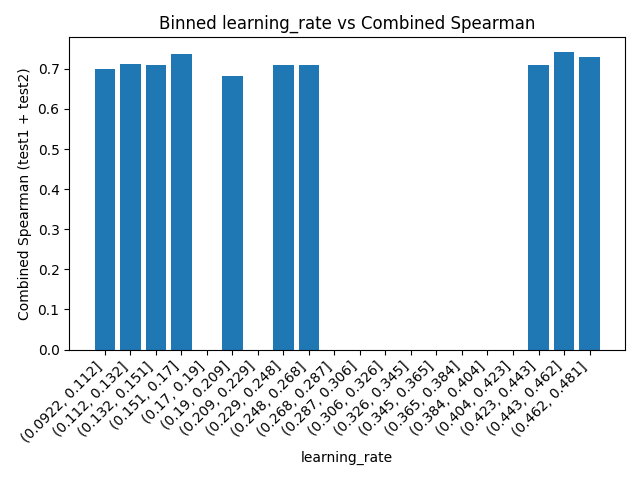
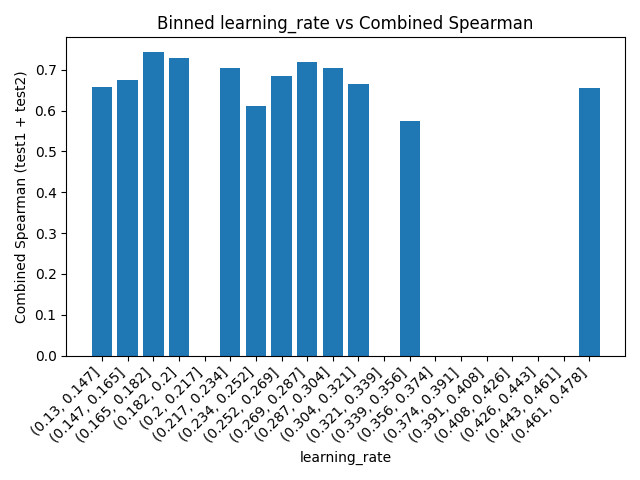
focusing on expanding parameters for embedded XGboost

Changed region(s): [[0.0, 0.0938, 0.9688, 0.9688], [0.25, 0.0312, 0.8438, 0.0625]]

diff --git a/auto_embed/submit.py b/auto_embed/submit.py
@@ -8,9 +8,8 @@ import time
 
 start_time = time.time()
 
-#  Download Helper 
+# Download helper
 def get_sharepoint(url, fname):
-    '''Fetch a world-readable SharePoint file shared via URL'''
     s = requests.Session()
     r = s.get(url)
     if not r:
@@ -30,22 +29,16 @@ def get_sharepoint(url, fname):
             fd.write(chunk)
     return True
 
-#  Download all files 
-get_sharepoint("https://pitt-my.sharepoint.com/:u:/g/personal/daa248_pitt_edu/EXax2uFOUN9Cqdc1RLIGLUMBr4M_RsN5IaAJZLC0KBmt9w?e=3lIlzG", "model.pkl")
-get_sharepoint("https://pitt-my.sharepoint.com/:t:/g/personal/daa248_pitt_edu/EdUlcAZ2gdFGnrqTCCUrQY0BUMEKKTWg-V1YF0BDe0AN1g?e=i7lyLt", "kmer_vocab.txt")
+# Download required files
+get_sharepoint("https://pitt-my.sharepoint.com/:u:/g/personal/daa248_pitt_edu/EfCZ-V2GcCVNp6L8Vms9DzoB-Ny2O-ldBVwzvk1X9sR84A?e=VQWaxY", "model.pkl")
 get_sharepoint("https://pitt-my.sharepoint.com/:t:/g/personal/daa248_pitt_edu/EY_LoADXgS5CvrlY-4JtPnUBeKodPxIAWb2GUKUQbEy_Kg?e=FANqjc", "kinase_seqs.txt")
+get_sharepoint("https://pitt-my.sharepoint.com/:u:/g/personal/daa248_pitt_edu/EbgpSLAyFAhEmaPEabv26_0Bfne6Ts287b-kc0ctlDuHhw?e=bUkCxH", "esm2_embeddings.npy")
 
-#  Load model 
+# Load model
 with open("model.pkl", "rb") as f:
     model = cloudpickle.load(f)
 
-#  Load vocabulary and sequence map 
-with open("kmer_vocab.txt") as f:
-    vocab = [line.strip() for line in f]
-
-kmer_to_index = {kmer: i for i, kmer in enumerate(vocab)}
-k = len(vocab[0])
-
+# Load sequences
 seq_map = {}
 with open("kinase_seqs.txt") as f:
     for line in f:
@@ -53,26 +46,24 @@ with open("kinase_seqs.txt") as f:
             uniprot, seq = line.strip().split()
             seq_map[uniprot] = seq
 
-#  Featurization 
+# Load ESM-2 embeddings
+embedding_dict = np.load("esm2_embeddings.npy", allow_pickle=True).item()
+
+# Featurize: ECFP + ESM embedding
 def featurize(smile, uniprot):
-    # Morgan fingerprint
     mol = Chem.MolFromSmiles(smile)
     if mol is None:
         return None
     fp = GetMorganGenerator(radius=2, fpSize=2048)
-    fp_array = np.array(fp.GetFingerprint(mol), dtype=np.float32)
+    ecfp_vec = np.array(fp.GetFingerprint(mol), dtype=np.float32)
 
-    # K-mer count
-    kmer_vec = np.zeros(len(kmer_to_index))
-    seq = seq_map.get(uniprot)
-    if seq:
-        for i in range(len(seq) - k + 1):
-            kmer = seq[i:i+k]
-            if kmer in kmer_to_index:
-                kmer_vec[kmer_to_index[kmer]] += 1
-    return np.concatenate([fp_array, kmer_vec])
+    if uniprot not in embedding_dict:
+        return None
+    esm_vec = embedding_dict[uniprot]
 
-#  Run predictions 
+    return np.concatenate([ecfp_vec, esm_vec])
+
+# Run predictions
 infile = open(sys.argv[1])
 outfile = open(sys.argv[2], "wt")
 
@@ -83,7 +74,7 @@ for line in infile:
     smile, uniprot = line.strip().split()
     x = featurize(smile, uniprot)
     if x is None:
-        val = 6.0  # fallback if invalid SMILES
+        val = 6.0
     else:
         val = float(model.predict(xgb.DMatrix(np.array([x])))[0])
     outfile.write(f"{smile} {uniprot} {val:.4f}\n")

diff --git a/auto_embed/main.py b/auto_embed/main.py
@@ -93,21 +93,29 @@ from skopt.space import Integer, Real
 from skopt.utils import use_named_args
 
 search_space = [
-    Integer(11, 20,   name="max_depth"),
-    Real   (0.13, .478, name="learning_rate"),
-    Integer(389, 1000, name="num_boost_round"),
+    Integer(5, 10,   name="max_depth"),
+    Real(0.13, 0.478, name="learning_rate"),
+    Integer(300, 700, name="num_boost_round"),
+    Integer(1, 10,    name="min_child_weight"),
+    Real(0.5, 1.0,    name="subsample"),
+    Real(0.5, 1.0,    name="colsample_bytree"),
+    Real(0.0, 5.0,    name="gamma"),
+    Real(0.0, 1.0,    name="reg_alpha"),
+    Real(0.0, 1.0,    name="reg_lambda"),
 ]
 
-if not os.path.exists("data/logs_xgboost.csv"):
+if not os.path.exists("data/logs_xgboost_more.csv"):
     pd.DataFrame(columns=[
         "trial", "max_depth", "learning_rate", "num_boost_round",
+        "min_child_weight", "subsample", "colsample_bytree",
+        "gamma", "reg_alpha", "reg_lambda",
         "test1_spearman", "test2_spearman"
-    ]).to_csv("data/logs_xgboost.csv", index=False)
+    ]).to_csv("data/logs_xgboost_more.csv", index=False)
 
 @use_named_args(search_space)
 def objective(**params):
     # trial counter from the CSV
-    trial_num = len(pd.read_csv("data/logs_xgboost.csv")) + 1
+    trial_num = len(pd.read_csv("data/logs_xgboost_more.csv")) + 1
     print(f"\n>>> Trial {trial_num} with {params}")
 
     result   = train_xgboost(x_path, y_path, **params)
@@ -126,7 +134,7 @@ def objective(**params):
         **params,
         "test1_spearman": test1_s,
         "test2_spearman": test2_s
-    }]).to_csv("data/logs_xgboost.csv", mode="a", header=False, index=False)
+    }]).to_csv("data/logs_xgboost_more.csv", mode="a", header=False, index=False)
 
     # minimise *negative* mean Spearman
     return -0.5 * (test1_s + test2_s)

diff --git a/auto_embed/plot_params.py b/auto_embed/plot_params.py
@@ -1,0 +1,45 @@
+
+import pandas as pd
+import matplotlib.pyplot as plt
+import os
+
+# Load data
+df = pd.read_csv("data/logs_xgboost_embed.csv")
+
+# Convert columns to numeric
+df["test1_spearman"] = pd.to_numeric(df["test1_spearman"], errors="coerce")
+df["test2_spearman"] = pd.to_numeric(df["test2_spearman"], errors="coerce")
+df["combined_spearman"] = df["test1_spearman"] + df["test2_spearman"]
+
+df["max_depth"] = pd.to_numeric(df["max_depth"], errors="coerce")
+df["learning_rate"] = pd.to_numeric(df["learning_rate"], errors="coerce")
+df["num_boost_round"] = pd.to_numeric(df["num_boost_round"], errors="coerce")
+
+df = df.dropna(subset=["combined_spearman", "max_depth", "learning_rate", "num_boost_round"])
+
+# Output folder
+output_dir = "plots"
+os.makedirs(output_dir, exist_ok=True)
+
+# Plotting function
+def plot_binned_param(df, param, bins=10):
+    df = df.copy()
+    df["binned"] = pd.cut(df[param], bins=bins)
+    grouped = df.groupby("binned")["combined_spearman"].mean().reset_index()
+
+    plt.figure()
+    plt.bar(grouped["binned"].astype(str), grouped["combined_spearman"])
+    plt.xticks(rotation=45, ha="right")
+    plt.ylabel("Combined Spearman (test1 + test2)")
+    plt.xlabel(param)
+    plt.title(f"Binned {param} vs Combined Spearman")
+    plt.tight_layout()
+    plt.savefig(os.path.join(output_dir, f"{param}_vs_spearman.png"))
+    plt.close()
+
+# Generate plots
+for param in ["max_depth", "learning_rate", "num_boost_round"]:
+    if param == 'max_depth':
+        plot_binned_param(df, param, bins=13)
+    else:
+        plot_binned_param(df, param, bins=20)

diff --git a/auto_embed/train_xgboost.py b/auto_embed/train_xgboost.py
@@ -13,12 +13,19 @@ def train_xgboost(
     y_path="data/processed/y_train.npy",
     model_path="models/xgboost_model.pkl",
     test_size=0.1,
-    max_depth=6,
-    learning_rate=0.1,
-    num_boost_round=300,
+    max_depth=9,
+    learning_rate=0.2796133227174733,
+    num_boost_round=698,
     seed=42,
-    verbose=True
+    verbose=True,
+    min_child_weight=1,
+    subsample=1.0,
+    colsample_bytree=1.0,
+    gamma=0.0,
+    reg_alpha=0.0,
+    reg_lambda=1.0
 ):
+
     x = np.load(x_path)
     y = np.load(y_path)
 
@@ -35,8 +42,15 @@ def train_xgboost(
         "tree_method": "hist",
         "device": "cuda",
         "max_depth": max_depth,
-        "eta": learning_rate
+        "eta": learning_rate,
+        "min_child_weight": min_child_weight,
+        "subsample": subsample,
+        "colsample_bytree": colsample_bytree,
+        "gamma": gamma,
+        "reg_alpha": reg_alpha,
+        "reg_lambda": reg_lambda
     }
+
 
     class TQDMCallback(xgb.callback.TrainingCallback):
         def __init__(self, total):
@@ -48,7 +62,7 @@ def train_xgboost(
 
         def after_training(self, model):
             self.pbar.close()
-            return model  # <--- This is the required fix
+            return model 
 
 
     booster = xgb.train(

diff --git a/auto_XGB/train_xgboost.py b/auto_XGB/train_xgboost.py
@@ -13,9 +13,9 @@ def train_xgboost(
     y_path="data/processed/y_train.npy",
     model_path="models/xgboost_model.pkl",
     test_size=0.1,
-    max_depth=6,
-    learning_rate=0.1,
-    num_boost_round=300,
+    max_depth=15,
+    learning_rate=0.45164012945943416,
+    num_boost_round=397,
     seed=42,
     verbose=True
 ):
